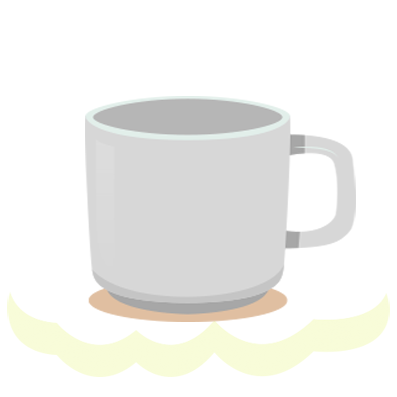
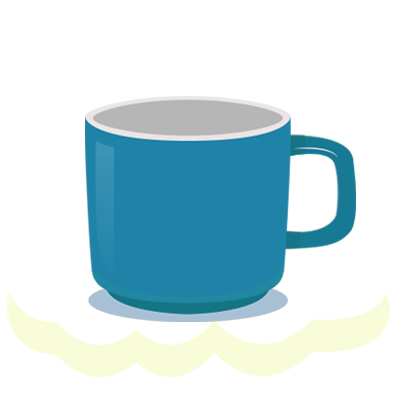
修改SHOP

diff --git a/shop.html b/shop.html
@@ -175,12 +175,26 @@
             </keep-alive>
         </p>        
 
+
+        <div class="shopCupColorChoose">
+                <span class="cupColor cupColor1"  @click="content='lessons'" id="white" data-color="1"></span>
+                <span class="cupColor cupColor2  active" @click="content='apply'" id="red" data-color="2"></span>
+                <span class="cupColor cupColor3" @click="content='temp'"id="blue" data-color="3" >
+                    <img src="images/image_abby/color.png" alt="color">
+                </span>
+         </div>
+        
+           
+<!--
                 <span class="shopAllBtn">
                     <button @click="content='lessons'" id="white" data-color="1"></button>
                     <button @click="content='apply'" id="red" data-color="2"></button>
-                    <button @click="content='temp'"id="blue" data-color="3"></button>
+                    <button @click="content='temp'"id="blue" data-color="3">
+                         <img src="images/image_abby/color.png" alt="color">
+                    </button>
                 </span>
             </div>
+--->
 <script>
         Vue.component('apply',{  
             template: `
@@ -215,7 +229,7 @@
         new Vue({
             el: '#app',
             data: {
-                content: 'lessons',
+                content: 'apply',
             },
         });
 </script>
@@ -229,8 +243,17 @@
                                 <keep-alive>
                                     <component :is="content"></component>
                                 </keep-alive>
-                            </p>      
+                            </p>
 
+                <div class="shopTColorChoose">
+                    <span class="TColor TColor1"  @click="content='lessons1'" id="white" data-color="1"></span>
+                    <span class="TColor TColor2  active" @click="content='apply1'" id="red" data-color="2"></span>
+                    <span class="TColor TColor3" @click="content='temp1'"id="blue" data-color="3" >
+                        <img src="images/image_abby/color.png" alt="color">
+                    </span>
+                </div>
+
+<!---
                             <span class="shopAllBtn1">
                                 <button @click="content='lessons1'" id="white" data-color="1"></button>
                                 <button @click="content='apply1'" id="red" data-color="2"></button>
@@ -238,7 +261,7 @@
                             </span>  
                         </div>
 
-
+---->
 <script>
         Vue.component('apply1',{  
             template: `
@@ -273,7 +296,7 @@
         new Vue({
             el: '#app1',
             data: {
-                content: 'lessons1',
+                content: 'apply1',
             },
         });
 </script>
@@ -370,14 +393,14 @@ window.onload=function () {
         shopItemIdSet();
     });
 
-    $( ".shopAllBtn button" ).click(function() {//馬克杯顏色
+    $( ".shopCupColorChoose span" ).click(function() {//馬克杯顏色
         color = $( this ).data("color");
         console.log(color);
         shopItemIdSet();
 
     });
 
-    $( ".shopAllBtn1 button" ).click(function() {//T-shirt顏色
+    $( ".shopTColorChoose span" ).click(function() {//T-shirt顏色
         color = $( this ).data("color");
         console.log(color);
         shopItemIdSet();
@@ -403,50 +426,50 @@ function shopItemIdSet(){
     if (type=="1"){
         if (color=="1"){
             if (pic=="1"){
-                shopItemId = 1;//console.log("shopItemId", shopItemId);
+                shopItemId = 1;console.log("shopItemId", shopItemId);
                 }else if (pic=="2"){
-                    shopItemId = 2;//console.log("shopItemId", shopItemId);
+                    shopItemId = 2;console.log("shopItemId", shopItemId);
                     }else{
-                        shopItemId = 3;//console.log("shopItemId", shopItemId);
+                        shopItemId = 3;console.log("shopItemId", shopItemId);
                     }
 
             }else if (color=="2"){
                 if (pic=="1"){
-                    shopItemId = 4;//console.log("shopItemId", shopItemId);
+                    shopItemId = 4;console.log("shopItemId", shopItemId);
                     }else if (pic=="2"){
-                        shopItemId = 5;//console.log("shopItemId", shopItemId);
+                        shopItemId = 5;console.log("shopItemId", shopItemId);
                         }else{
-                            shopItemId = 6;//console.log("shopItemId", shopItemId);
+                            shopItemId = 6;console.log("shopItemId", shopItemId);
                         }
 
                 }else{
                     if (pic=="1"){
-                        shopItemId = 7;//console.log("shopItemId", shopItemId);
+                        shopItemId = 7;console.log("shopItemId", shopItemId);
                         }else if (pic=="2"){
-                            shopItemId = 8;//console.log("shopItemId", shopItemId);
+                            shopItemId = 8;console.log("shopItemId", shopItemId);
                             }else{
-                                shopItemId = 9;//console.log("shopItemId", shopItemId);
+                                shopItemId = 9;console.log("shopItemId", shopItemId);
                             }
                 }
 
 
     }else{
         if (color=="1") {
-            if (pic=="1"){shopItemId = 10;//console.log("shopItemId", shopItemId);
-                }else if(pic=="2"){shopItemId = 11;//console.log("shopItemId", shopItemId);
-                }else{shopItemId = 12;//console.log("shopItemId", shopItemId);
+            if (pic=="1"){shopItemId = 10;console.log("shopItemId", shopItemId);
+                }else if(pic=="2"){shopItemId = 11;console.log("shopItemId", shopItemId);
+                }else{shopItemId = 12;console.log("shopItemId", shopItemId);
             }
 
         }else if(color=="2"){
-            if (pic=="1"){shopItemId = 13;//console.log("shopItemId", shopItemId);
-                }else if(pic=="2"){shopItemId = 14;//console.log("shopItemId", shopItemId);
-                }else{shopItemId = 15;//console.log("shopItemId", shopItemId);
+            if (pic=="1"){shopItemId = 13;console.log("shopItemId", shopItemId);
+                }else if(pic=="2"){shopItemId = 14;console.log("shopItemId", shopItemId);
+                }else{shopItemId = 15;console.log("shopItemId", shopItemId);
             }
 
         }else{
-            if (pic=="1") {shopItemId = 16;//console.log("shopItemId", shopItemId);
-                }else if(pic=="2"){shopItemId = 17;//console.log("shopItemId", shopItemId);
-                }else{shopItemId = 18;//console.log("shopItemId", shopItemId);
+            if (pic=="1") {shopItemId = 16;console.log("shopItemId", shopItemId);
+                }else if(pic=="2"){shopItemId = 17;console.log("shopItemId", shopItemId);
+                }else{shopItemId = 18;console.log("shopItemId", shopItemId);
             }
         }
     }
@@ -481,6 +504,94 @@ $('shopItemId'="3").on({
 });
 
 </script> -->
+
+
+
+
+<script>
+    for(i=0;i<addCartButtons.length;i++){  //加入購物車
+    addCartButtons[i].onclick=function(){
+        let prodName=JSON.parse(this.nextElementSibling.value)[0]    //cup/hat/pillow...
+        let data={};
+        data.prodInfo=JSON.parse(this.nextElementSibling.value);  //name +商品本人圖片+單價
+        data.num=this.parentNode.previousElementSibling.children[1].value   //數量
+        data.img=this.parentNode.parentNode.children[2].children[1].children[0].src  
+
+        let imgName=data.img.substring(data.img.lastIndexOf("/")+1,data.img.lastIndexOf("."));   //圖片檔名
+        let sessionName=prodName+"|"+imgName;  //cup|work_amlbg_5
+
+        data.name=sessionName;
+        // console.log(sessionName)
+        data=JSON.stringify(data);
+        // console.log(data);
+        // {"prodInfo":["1","馬克杯","img/shop/cup.png","500"],"num":"1","Img":"http://localhost/G3/img/collections/work_amlbg_5.png","name":"cup|work_amlbg_5"}
+        
+        $.get('php/cart/cart_session.php',{data:data});
+        if(sessionStorage['shopList'] == null){
+            sessionStorage['shopList'] =""; 
+        }
+        if(sessionStorage[sessionName]){   //買過了  num+1
+            let dataNew;
+            dataNew=JSON.parse(sessionStorage[sessionName]);
+            dataNew.num=Number(dataNew.num)+1;
+            dataNew=JSON.stringify(dataNew);
+            sessionStorage.setItem(sessionName,dataNew);  
+            alert("此商品已在購物車！");
+        }else{    //沒買過這個商品
+            sessionStorage['shopList']+=sessionName+",";
+            sessionStorage.setItem(sessionName,data);
+            alert("成功加入購物車！");
+
+        }
+        
+
+        document.getElementById("cart_num").style.display='block';
+        document.getElementById("cart_num").innerText=sessionStorage['shopList'].split(',').length-1;
+        
+    }
+}
+</script>
+
+
+
+
+
+<script>
+    //let changeCupStyle = document.getElementById('changeCupStyle');
+    let CupColor = document.querySelectorAll('.cupColor');
+    //let colorChoose = ['blue','red','strips'];
+    CupColor.forEach(function (dom, index) {
+    dom.addEventListener('click', function () {
+        document.querySelector('.cupColor.active').classList.remove('active');
+        this.classList.add('active');
+        // changeCupStyle.src = `images/${colorChoose[index]}cup.png`;
+    });
+});
+
+
+        //let changeCupStyle = document.getElementById('changeCupStyle');
+    let shopCupColor = document.querySelectorAll('.TColor');
+    //let colorChoose = ['blue','red','strips'];
+    shopCupColor.forEach(function (dom, index) {
+    dom.addEventListener('click', function () {
+        document.querySelector('.TColor.active').classList.remove('active');
+        this.classList.add('active');
+        // changeCupStyle.src = `images/${colorChoose[index]}cup.png`;
+    });
+});
+</script>
+
+
+
+
+
+
+
+
+
+
+
+
 
 
 

diff --git a/css/shop.css b/css/shop.css
@@ -213,35 +213,110 @@ cursor:pointer;
 	width: 60%;
 }
 
+/*----顏色按鈕----*/
 
+/*選擇顏色*/
+.shopCupColorChoose,.shopTColorChoose{
+	position: relative;
+	top: -90px;
+    width: 50%;
+    margin: auto;
+    cursor: pointer
+}
+.shopCupColorChoose span.cupColor,
+.shopTColorChoose span.TColor{
+	display: inline-block;
+	width: 25px;
+	height: 25px;
+	border-radius: 50%;
+	margin: 0 10px;
+	position: relative;	
+}
 
+.shopCupColorChoose span.cupColor1,
+.shopTColorChoose span.TColor1{
+	background-color: #287fa0;
+}
 
+.shopCupColorChoose span.cupColor2,
+.shopTColorChoose span.TColor2{
+	background-color: rgb(194, 57, 6);
+}
+.shopCupColorChoose span.cupColor:after,
+.shopTColorChoose span.TColor:after{
+    content: "";
+	display: block;
+	width: 35px;
+	height: 35px;
+	border-radius: 50%;
+	box-sizing: border-box;
+	position: absolute;
+	top: -5px;
+    left: -5px;
+}
+.shopCupColorChoose span.cupColor1.active:after,
+.shopTColorChoose span.TColor1.active:after{
+    border: 1px solid #287fa0;
+}
+.shopCupColorChoose span.cupColor2.active:after,
+.shopTColorChoose span.TColor2.active:after{
+    border: 1px solid rgb(194, 57, 6);
+}
+.shopCupColorChoose span.cupColor3.active:after,
+.shopTColorChoose span.TColor3.active:after{
+    border: 1px solid #1b3263;
+}
 
-
+/**
 #white{
 		margin: 0 10px;
-		width: 30px;
-		height: 30px;
+		width: 25px;
+		height: 25px;
 		border-radius: 50%;
 		border:none;
 		background-color: #fff;
 	}
 	#red{
 		margin: 0 10px;
-		width: 30px;
-		height: 30px;
+		width: 25px;
+		height: 25px;
 		border-radius: 50%;
 		border:none;
 		background-color: #a83d15;
 	}
 	#blue{
 		margin: 0 10px;
-		width: 30px;
-		height: 30px;
+		width: 25px;
+		height: 25px;
 		border-radius: 50%;
 		border:none;
 		background-color: #283562;
+
 	}
+
+	.shopAlllbtn button#shopCupColor:after{
+    content: "";
+	display: block;
+	width: 35px;
+	height: 35px;
+	border-radius: 50%;
+	box-sizing: border-box;
+	position: absolute;
+	top: -5px;
+    left: -5px;
+	}
+
+
+	.#white.active:after{
+    border: 1px solid #287fa0;
+	}
+	.#red.active:after{
+	    border: 1px solid rgb(194, 57, 6);
+	}
+	.#blue.active:after{
+	    border: 1px solid #1b3263;
+	}
+*/
 
 
 /*-----選擇圖案-------手機板----*/

diff --git a/memberstation.php b/memberstation.php
@@ -23,16 +23,16 @@ try {
   $holdingcoupon->execute();
   echo "<pre>holdingcoupon:"; print_r($holdingcoupon); echo "</pre>";
 
-//   找訂單
-//   $orderItems=$pdo->prepare('SELECT * FROM  order_item o join product pro on pro.product_no = o.product_no where o.order_no = :order_no ');
-//   $orderItems->execute();
-//   echo "<pre>orderform:"; print_r($orderform); echo "</pre>";
+  //找訂單
+  $orderItems=$pdo->prepare('SELECT * FROM  order_item o join product pro on pro.product_no = o.product_no where o.order_no = :order_no ');
+  $orderItems->execute();
+  echo "<pre>orderform:"; print_r($orderform); echo "</pre>";
 
-//   找預約
-//   $revs=$pdo->prepare('SELECT * FROM resv_order r join resv_session_capacity rc on r.session_no = rc.session_no where r.member_id = :member_id');
-//   $revs->bindValue(':memberId',@$_SESSION['memNo']);
-//   $revs->execute();
-//   echo "<pre>reserve:"; print_r($reserve); echo "</pre>";
+  //找預約
+  $revs=$pdo->prepare('SELECT * FROM resv_order r join resv_session_capacity rc on r.session_no = rc.session_no where r.member_id = :member_id');
+  $revs->bindValue(':memberId',@$_SESSION['memNo']);
+  $revs->execute();
+  echo "<pre>reserve:"; print_r($reserve); echo "</pre>";
 
 ?>
 
